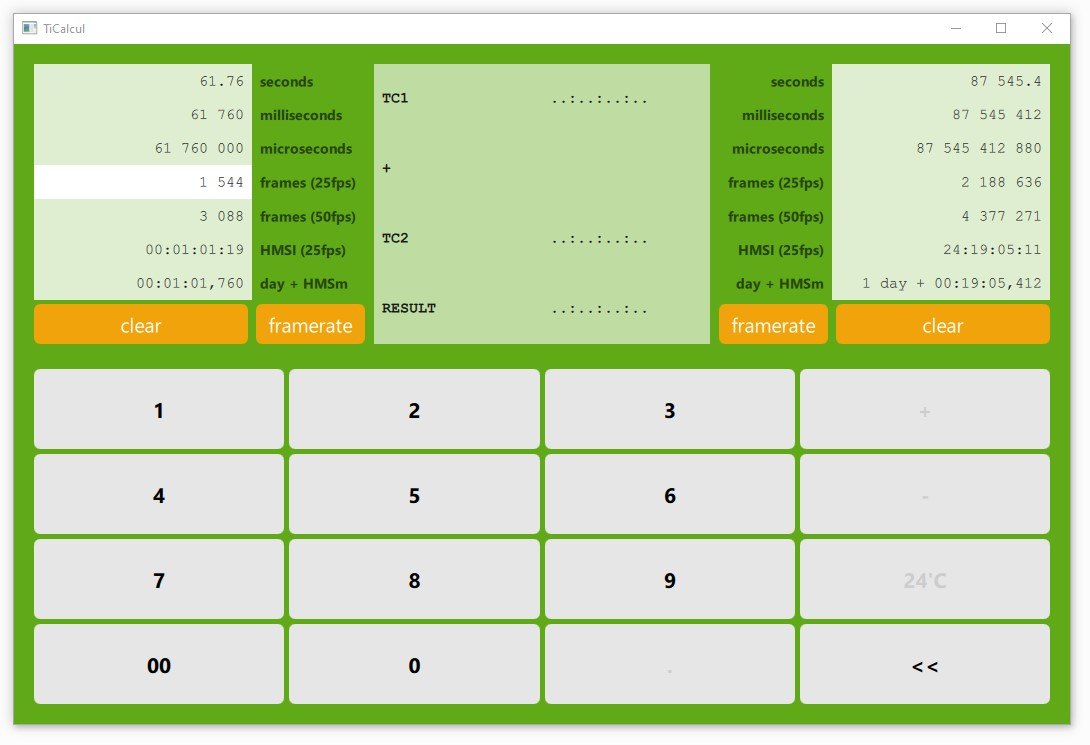
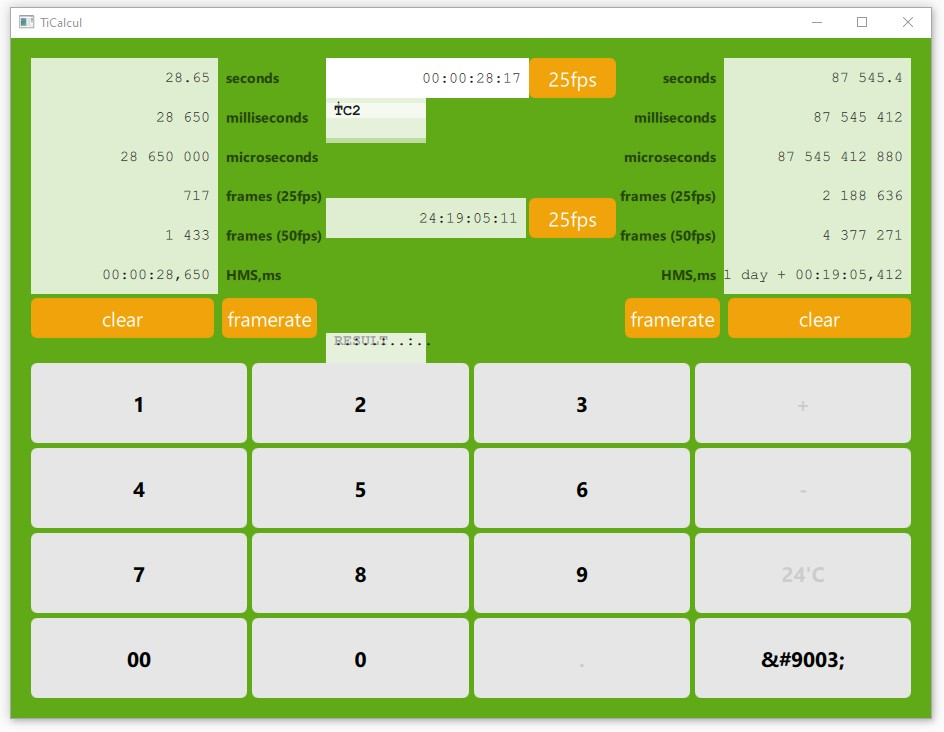
Le champs HMSI est dans la zone de calcul

diff --git a/Qml/Vues/CalculFrameForm.ui.qml b/Qml/Vues/CalculFrameForm.ui.qml
@@ -1,42 +1,45 @@
 import QtQuick
-import QtQuick.Layouts 2.15
+import QtQuick.Layouts
+import "../Components"
 import "../Controllers"
 
 Item {
     id: _item
+    property alias tc1: tc1
+    property alias tc2: tc2
+
     GridLayout {
         id: zoneResults
         anchors.fill: parent
         Layout.margins: 24
         columnSpacing: 0
         rowSpacing: 0
-        columns: 2
+        columns: 3
 
         // ------------------------------------------------------------
         // 1ere ligne
         // ------------------------------------------------------------
         FieldResult {
             id: lbTc1
+            width: 0
             text: "TC1"
-            Layout.fillHeight: true
+            Layout.fillHeight: false
             Layout.fillWidth: true
         }
-        FieldResult {
+        FieldInput {
             id: tc1
-            text: "..:..:..:.."
-            Layout.fillHeight: true
+            //text: "..:..:..:.."
+            afficheur: TC1_aff_4
+            Layout.fillHeight: false
+            Layout.fillWidth: true
+        }
+        TiButton {
+            id: bFramerateTc1
+            buttonText: "25fps"
+            Layout.fillHeight: false
             Layout.fillWidth: true
         }
 
-
-        /*TiButton {
-            id: btSwap
-            buttonText: "v^"
-            Layout.fillHeight: true
-            Layout.fillWidth: true
-            Layout.rowSpan: 2
-            Layout.columnSpan: 1
-        }*/
         // ------------------------------------------------------------
         // Operande
         // ------------------------------------------------------------
@@ -46,7 +49,7 @@ Item {
             Layout.fillHeight: true
             Layout.fillWidth: true
             Layout.rowSpan: 1
-            Layout.columnSpan: 2
+            Layout.columnSpan: 3
         }
 
         // ------------------------------------------------------------
@@ -58,10 +61,17 @@ Item {
             Layout.fillHeight: true
             Layout.fillWidth: true
         }
-        FieldResult {
+        FieldInput {
             id: tc2
-            text: "..:..:..:.."
-            Layout.fillHeight: true
+            // text: "..:..:..:.."
+            afficheur: TC2_aff_4
+            Layout.fillHeight: false
+            Layout.fillWidth: false
+        }
+        TiButton {
+            id: bFramerateTc2
+            buttonText: "25fps"
+            Layout.fillHeight: false
             Layout.fillWidth: true
         }
 

diff --git a/Qml/Components/FieldResult.qml b/Qml/Components/FieldResult.qml
@@ -3,13 +3,15 @@ import QtQuick.Controls.Universal
 
 Item {
     property alias text: result.text
+
     Rectangle {
-        anchors.fill: parent
+        implicitWidth: 100
+        implicitHeight: 40
         color: Universal.altMediumColor
+
         Text {
             id: result
             text: "result"
-            anchors.fill: parent
             horizontalAlignment: Text.AlignLeft
             verticalAlignment: Text.AlignVCenter
             leftPadding: 8
@@ -19,4 +21,23 @@ Item {
             color: Universal.chromeAltLowColor
         }
     }
+
+
+    /*
+    Label {
+        id: result
+        anchors.fill: parent
+        text: "result"
+        horizontalAlignment: Text.AlignLeft
+        verticalAlignment: Text.AlignVCenter
+        font.pixelSize: 15
+        font.family: "Courier"
+        font.bold: true
+        color: Universal.chromeAltLowColor
+
+        background: Rectangle {
+            color: "red"
+            // Universal.altMediumColor
+        }
+    }*/
 }

diff --git a/Qml/Vues/LeftFrameForm.ui.qml b/Qml/Vues/LeftFrameForm.ui.qml
@@ -77,6 +77,9 @@ Item {
             Layout.fillWidth: true
         }
         // ---------------------------------------
+
+
+        /*
         FieldInput {
             //text: "HH:MM:SS:II"
             afficheur: TC1_aff_4
@@ -88,6 +91,7 @@ Item {
             Layout.fillHeight: true
             Layout.fillWidth: true
         }
+*/
         // ---------------------------------------
         FieldInput {
             //text: "DD + HH:MM:SS:II"
@@ -96,7 +100,7 @@ Item {
             Layout.fillWidth: true
         }
         FieldLabel {
-            text: "day + HMSm"
+            text: "HMS,ms"
             Layout.fillHeight: true
             Layout.fillWidth: true
         }

diff --git a/Qml/Vues/RightFrameForm.ui.qml b/Qml/Vues/RightFrameForm.ui.qml
@@ -82,7 +82,9 @@ Item {
             Layout.fillWidth: true
         }
         // ---------------------------------------
-        FieldLabel {
+
+
+        /*        FieldLabel {
             text: "HMSI (25fps)"
             justify: Text.AlignRight
             Layout.fillHeight: true
@@ -94,9 +96,10 @@ Item {
             Layout.fillHeight: true
             Layout.fillWidth: true
         }
+*/
         // ---------------------------------------
         FieldLabel {
-            text: "day + HMSm"
+            text: "HMS,ms"
             justify: Text.AlignRight
             Layout.fillHeight: true
             Layout.fillWidth: true

diff --git a/Qml/Controllers/CalculFrame.qml b/Qml/Controllers/CalculFrame.qml
@@ -1,0 +1,18 @@
+import QtQuick
+
+import "../Vues"
+
+
+/*! *****************************************************************
+ * \brief Controlleur pour le panel central (zone des calculs).
+ * ***************************************************************** */
+CalculFrameForm {
+
+    tc1.onClicked: {
+        console.log("TiButton btFramerate TC1 clicked ! ")
+    }
+
+    tc2.onClicked: {
+        console.log("TiButton btSwap clicked ! ")
+    }
+}

diff --git a/Qml/Vues/KeyboardForm.ui.qml b/Qml/Vues/KeyboardForm.ui.qml
@@ -110,7 +110,7 @@ GridLayout {
     }
     KeyboardKeyForm {
         id: keyDel
-        buttonText: "<<"
+        buttonText: "&#9003;"
         Layout.fillWidth: true
     }
 }

diff --git a/Sources/unites.cpp b/Sources/unites.cpp
@@ -1,105 +1,13 @@
 #include "unites.h"
 
 
-/***************************************************************************
- * Enumérés des différentes unités gérées par l'application.
+/*! **************************************************************************
+ * \class Enumérés des différentes unités gérées par l'application.
  * Pour chacune des unités, on a quelques infos utiles, telles que
  * la valeur max affichable dans l'appli, le nombre de décimales à afficher, etc.
- ****************************************************************************/
+ * ***************************************************************************/
 
-/** ***************************************************************
- * Constructeur. On remplit les maps.
- ******************************************************************/
+
+
 Unites::Unites()
-{/*
-    InitUsPerUnit();
-    InitframeRate();
-    InitframeRate();
-    InitMaxValue();
-    InitNames();
-*/
-}
-
-
-/** *****************************************************************
- * @brief Unites::InitUsPerUnit
- * initialise la map usPerUnit qui fournit le nombre de microseconds par unité.
- ******************************************************************/
-void Unites::InitUsPerUnit()
-{/*
-    usPerUnit[HMSI]=Converter::us_PerFrame25;
-    usPerUnit[DHMSM]=Converter::us_PerFrame25;
-    usPerUnit[SECONDS]=Converter::us_PerSecond;
-    usPerUnit[FRAMES_25]=Converter::us_PerFrame25;
-    usPerUnit[FRAMES_50]=Converter::us_PerFrame50;
-    usPerUnit[FRAMES_NTSC]=Converter::us_PerFrameNTSC;
-    usPerUnit[MILLISECONDS]=1000;
-    usPerUnit[MICROSECONDS]=1;
-*/}
-
-/** *****************************************************************
- * @brief Unites::InitMaxValue
- * initialise la map maxValue qui fournit la valeur max autorisée pour l'unité.
- * (99 heures)
- ********************************************************************/
-void Unites::InitMaxValue()
-{/*
-    maxValue[HMSI] = 99999999;                                      //      99 999 999
-    maxValue[DHMSM] = 99999999;                                     //      99 999 999
-    maxValue[SECONDS] = 99 * 60 * 60;                               //         356 400
-    maxValue[FRAMES_25] = 99 * 60 * 60 * 25;                        //       8 910 000
-    maxValue[FRAMES_50] = 99 * 60 * 60 * 50;                        //      17 820 000
-    maxValue[FRAMES_NTSC] = 99 * 60 * 60 * 30;
-    maxValue[MILLISECONDS] = 99 * 60 * 60 * 1000;                   //     356 400 000
-    maxValue[MICROSECONDS] = 99 * 60 * 60 * (qint64)(1000000);      // 356 400 000 000
-*/
-}
-
-/** *****************************************************************
- * @brief Unites::InitframeRate
- * initialise la map frameRate qui fournit le nombre d'unités par seconde. Doit être cohérent avec us_per_unit..
- */
-void Unites::InitframeRate()
-{/*
-    frameRate[HMSI] = 25.0;
-    frameRate[DHMSM] = 25.0;
-    frameRate[SECONDS] = 1.0;
-    frameRate[FRAMES_25] = 25.0;
-    frameRate[FRAMES_50] = 50.0;
-    frameRate[FRAMES_NTSC] = 30.0;
-    frameRate[MILLISECONDS] = 1000.0;
-    frameRate[MICROSECONDS] = 1000000.0;
-*/}
-
-/** *****************************************************************
- * @brief Unites::InitNbDecimals
- * initialise la map nbDecimals qui fournit le nombre de chiffres après la virgule.
- */
-void Unites::InitNbDecimals()
-{/*
-    nbDecimals[HMSI] =0 ;
-    nbDecimals[DHMSM] = 0;
-    nbDecimals[SECONDS] = 3;
-    nbDecimals[FRAMES_25] = 0;
-    nbDecimals[FRAMES_50] = 0;
-    nbDecimals[FRAMES_NTSC] = 0;
-    nbDecimals[MILLISECONDS] = 0;
-    nbDecimals[MICROSECONDS] = 0;
-*/}
-
-/** *****************************************************************
- * @brief Unites::InitNames
- * initialise la map name qui fournit le nom de l'unité sous forme de string.
- */
-void Unites::InitNames()
-{/*
-    name[HMSI]="HMSI";
-    name[DHMSM]="DHMSM";
-    name[SECONDS]="SECONDS";
-    name[FRAMES_25]="FRAMES_25";
-    name[FRAMES_50]="FRAMES_50";
-    name[FRAMES_NTSC]="FRAMES_NTSC";
-    name[MILLISECONDS]="MILLISECONDS";
-    name[MICROSECONDS]="MICROSECONDS";
-*/
-}
+{}

diff --git a/Sources/unites.h b/Sources/unites.h
@@ -45,17 +45,6 @@ class Unites
             {SECONDS, "SECONDS"}, {MILLISECONDS, "MILLISECONDS"}, {MICROSECONDS, "MICROSECONDS"}
         };
 
-
-    /* ****************************************************************
-     * Fonction d'initialisation des tables
-     * NOTE : A supprimer
-     * **************************************************************** */
-    private :
-        static void InitMaxValue();
-        static void InitUsPerUnit();
-        static void InitframeRate();
-        static void InitNbDecimals();
-        static void InitNames();
 };
 
 #endif // UNITES_H

diff --git a/main.cpp b/main.cpp
@@ -19,7 +19,7 @@ int main(int argc, char* argv[])
     app.setApplicationName("TiCalcul");
     app.setOrganizationName("Sphinkie");
     app.setOrganizationDomain("de-lorenzo.fr");
-    app.setWindowIcon(QIcon(":images/TiCalcul.ico"));   // FIXME
+    app.setWindowIcon(QIcon(":images/TiCalcul.ico"));   // FIXME : l'icone n'apparait pas
 
     // --------------------------------------
     // On initialise nos classes
